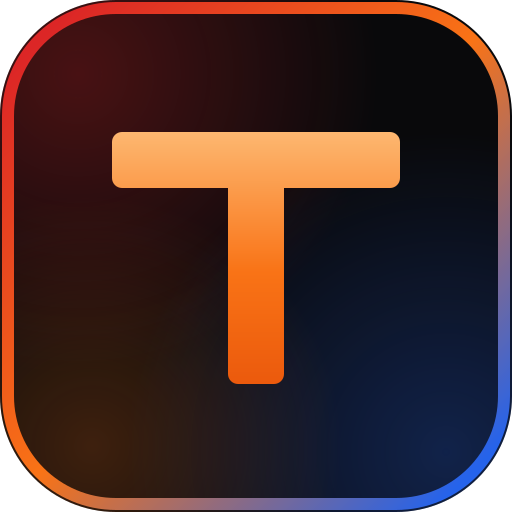
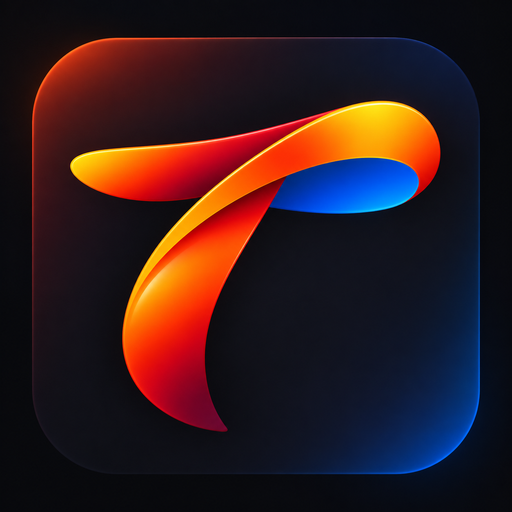
Update production assets and login entry

diff --git a/frontend/src/pages/LoginPage.jsx b/frontend/src/pages/LoginPage.jsx
@@ -3,6 +3,12 @@ import { Link, Navigate, useLocation, useNavigate } from 'react-router-dom'
 import { useAuth } from '../auth/AuthContext'
 import { defaultRouteByRole } from '../utils/roles'
 import InstallAppButton from '../components/InstallAppButton'
+import {
+  buildPublicLandingUrlForWindow,
+  buildTenantDisplayHostForWindow,
+  buildTenantUrlForWindow,
+  resolveHostnameContextForWindow,
+} from '../utils/publicLandingHost'
 
 export default function LoginPage() {
   const { login, isAuthenticated, user } = useAuth()
@@ -11,7 +17,15 @@ export default function LoginPage() {
   const [email, setEmail] = useState('')
   const [password, setPassword] = useState('')
   const [error, setError] = useState('')
+  const [accessMode, setAccessMode] = useState('personal')
+  const [centerSubdomain, setCenterSubdomain] = useState('')
+  const [centerError, setCenterError] = useState('')
   const [loading, setLoading] = useState(false)
+  const hostnameContext = resolveHostnameContextForWindow()
+  const showAccessSelector = hostnameContext.shouldShowLoginSelector
+  const currentAccessMode = showAccessSelector ? accessMode : 'personal'
+  const isAdminLogin = hostnameContext.isAdminDomain
+  const isTenantLogin = hostnameContext.isTenantDomain
 
   if (isAuthenticated && user) {
     return <Navigate to={defaultRouteByRole(user.role)} replace />
@@ -34,15 +48,51 @@ export default function LoginPage() {
     }
   }
 
+  const landingUrl = buildPublicLandingUrlForWindow() || '/'
+
+  const onCenterAccess = (event) => {
+    event.preventDefault()
+    setCenterError('')
+
+    const tenantUrl = buildTenantUrlForWindow(centerSubdomain)
+    if (!tenantUrl) {
+      setCenterError('Ingresa el subdominio de tu centro deportivo.')
+      return
+    }
+
+    window.location.assign(`${tenantUrl}/login`)
+  }
+
+  const centerExampleHost = buildTenantDisplayHostForWindow('gladiador')
+  const centerDomainSuffix = centerExampleHost ? centerExampleHost.replace(/^gladiador/, '') : ''
+  const title = isAdminLogin
+    ? 'Acceso administrativo'
+    : isTenantLogin
+      ? 'Acceso del centro deportivo'
+      : 'Inicia sesión'
+  const subtitle = showAccessSelector
+    ? 'Elige el acceso correcto antes de continuar.'
+    : isAdminLogin
+      ? 'Ingresa con tus credenciales administrativas.'
+      : 'Ingresa con las credenciales de tu centro deportivo.'
+
   return (
     <div className="relative flex min-h-screen items-center justify-center overflow-hidden bg-brand-black p-4 lg:p-0">
       <div className="pointer-events-none absolute inset-0 bg-[radial-gradient(circle_at_15%_20%,rgba(220,38,38,0.23),transparent_28%),radial-gradient(circle_at_85%_20%,rgba(37,99,235,0.2),transparent_25%),radial-gradient(circle_at_50%_100%,rgba(249,115,22,0.18),transparent_30%)]" />
 
       <div className="relative z-10 grid w-full max-w-app overflow-hidden rounded-3xl border border-brand-line bg-brand-soft/95 shadow-glow lg:min-h-[600px] lg:grid-cols-2 lg:rounded-none lg:border-0 lg:bg-transparent lg:shadow-none">
+        <a
+          href={landingUrl}
+          className="absolute left-7 top-7 z-20 inline-flex items-center gap-2 text-sm font-semibold text-brand-muted transition hover:text-brand-orange lg:left-12 lg:top-12"
+        >
+          <span aria-hidden="true">←</span>
+          Volver a TYMRO
+        </a>
+
         {/* Brand panel — desktop only */}
         <div className="relative hidden flex-col justify-between overflow-hidden bg-gradient-to-br from-brand-red/25 via-brand-black to-brand-blue/25 p-12 lg:flex">
           <div className="pointer-events-none absolute -bottom-24 -left-24 h-72 w-72 rounded-full bg-brand-orange/20 blur-3xl" />
-          <p className="font-display text-sm font-bold uppercase tracking-[0.4em] text-brand-orange">TYMRO</p>
+          <div aria-hidden="true" className="h-10" />
           <div className="relative">
             <h2 className="font-display text-4xl font-bold leading-tight text-brand-white xl:text-5xl">
               Gestiona tu gimnasio<br />sin fricción.
@@ -60,53 +110,111 @@ export default function LoginPage() {
         </div>
 
         {/* Form panel */}
-        <div className="flex items-center justify-center p-7 sm:p-10 lg:bg-brand-soft/95">
+        <div className="flex items-center justify-center p-7 pt-20 sm:p-10 sm:pt-24 lg:bg-brand-soft/95 lg:pt-10">
           <div className="w-full max-w-md">
-            <p className="font-display text-xs font-bold uppercase tracking-[0.3em] text-brand-orange lg:hidden">TYMRO</p>
-            <h1 className="mt-3 font-display text-3xl font-bold lg:mt-0">Inicia sesión</h1>
-            <p className="mt-2 text-sm text-brand-muted">Ingresa con tu email y contraseña.</p>
+            <h1 className="font-display text-3xl font-bold">{title}</h1>
+            <p className="mt-2 text-sm text-brand-muted">
+              {subtitle}
+            </p>
 
-            <form onSubmit={onSubmit} className="mt-7 space-y-4">
-              <label className="block space-y-2">
-                <span className="text-sm font-medium text-brand-muted">Email</span>
-                <input
-                  required
-                  type="email"
-                  value={email}
-                  onChange={(e) => setEmail(e.target.value)}
-                  className="field min-h-12 px-4"
-                  placeholder="tu@email.com"
-                />
-              </label>
+            {showAccessSelector ? (
+              <div className="login-access-tabs" role="tablist" aria-label="Tipo de acceso">
+                <button
+                  type="button"
+                  role="tab"
+                  aria-selected={accessMode === 'personal'}
+                  className={accessMode === 'personal' ? 'is-active' : ''}
+                  onClick={() => setAccessMode('personal')}
+                >
+                  Personal
+                </button>
+                <button
+                  type="button"
+                  role="tab"
+                  aria-selected={accessMode === 'center'}
+                  className={accessMode === 'center' ? 'is-active' : ''}
+                  onClick={() => setAccessMode('center')}
+                >
+                  Centro deportivo
+                </button>
+              </div>
+            ) : null}
 
-              <label className="block space-y-2">
-                <span className="text-sm font-medium text-brand-muted">Contraseña</span>
-                <input
-                  required
-                  type="password"
-                  value={password}
-                  onChange={(e) => setPassword(e.target.value)}
-                  className="field min-h-12 px-4"
-                  placeholder="••••••••"
-                />
-              </label>
+            {currentAccessMode === 'personal' ? (
+              <form onSubmit={onSubmit} className="mt-7 space-y-4">
+                <label className="block space-y-2">
+                  <span className="text-sm font-medium text-brand-muted">Email</span>
+                  <input
+                    required
+                    type="email"
+                    value={email}
+                    onChange={(e) => setEmail(e.target.value)}
+                    className="field min-h-12 px-4"
+                    placeholder="tu@email.com"
+                  />
+                </label>
 
-              {error ? <p className="rounded-xl border border-brand-red/50 bg-brand-red/10 p-3 text-sm text-red-100">{error}</p> : null}
+                <label className="block space-y-2">
+                  <span className="text-sm font-medium text-brand-muted">Contraseña</span>
+                  <input
+                    required
+                    type="password"
+                    value={password}
+                    onChange={(e) => setPassword(e.target.value)}
+                    className="field min-h-12 px-4"
+                    placeholder="••••••••"
+                  />
+                </label>
 
-              <button
-                type="submit"
-                disabled={loading}
-                className="min-h-12 w-full rounded-xl bg-gradient-to-r from-brand-red via-brand-orange to-brand-blue px-4 py-3 text-sm font-semibold text-white transition hover:brightness-110 disabled:cursor-not-allowed disabled:opacity-60"
-              >
-                {loading ? 'Ingresando...' : 'Entrar'}
-              </button>
+                {error ? <p className="rounded-xl border border-brand-red/50 bg-brand-red/10 p-3 text-sm text-red-100">{error}</p> : null}
 
-              <p className="text-center text-sm">
-                <Link to="/forgot-password" className="text-brand-muted underline-offset-4 hover:text-brand-orange hover:underline">
-                  ¿Olvidaste tu contraseña?
-                </Link>
-              </p>
-            </form>
+                <button
+                  type="submit"
+                  disabled={loading}
+                  className="login-submit-button"
+                >
+                  {loading ? 'Ingresando...' : 'Entrar'}
+                </button>
+
+                <p className="text-center text-sm">
+                  <Link to="/forgot-password" className="text-brand-muted underline-offset-4 hover:text-brand-orange hover:underline">
+                    ¿Olvidaste tu contraseña?
+                  </Link>
+                </p>
+              </form>
+            ) : (
+              <form onSubmit={onCenterAccess} className="mt-7 space-y-4">
+                <label className="block space-y-2">
+                  <span className="text-sm font-medium text-brand-muted">Subdominio del centro</span>
+                  <div className="flex overflow-hidden rounded-xl border border-brand-line bg-black/30 transition focus-within:border-brand-blue">
+                    <input
+                      required
+                      value={centerSubdomain}
+                      onChange={(e) => setCenterSubdomain(e.target.value)}
+                      className="min-h-12 min-w-0 flex-1 bg-transparent px-4 text-brand-white placeholder:text-brand-dim focus:outline-none"
+                      placeholder="gladiador"
+                      aria-describedby="center-subdomain-help"
+                    />
+                    {centerDomainSuffix ? (
+                      <span className="hidden items-center border-l border-brand-line px-3 text-sm text-brand-muted sm:flex">
+                        {centerDomainSuffix}
+                      </span>
+                    ) : null}
+                  </div>
+                  <span id="center-subdomain-help" className="block text-xs text-brand-dim">
+                    {centerExampleHost
+                      ? `Ejemplo: gladiador te lleva a ${centerExampleHost}`
+                      : 'Ejemplo: gladiador te lleva al dominio configurado para esa organización.'}
+                  </span>
+                </label>
+
+                {centerError ? <p className="rounded-xl border border-brand-red/50 bg-brand-red/10 p-3 text-sm text-red-100">{centerError}</p> : null}
+
+                <button type="submit" className="login-submit-button">
+                  Ir al centro
+                </button>
+              </form>
+            )}
 
             {/* Instalación PWA: solo aparece si el navegador la ofrece o en iOS; oculto
                 si ya corre instalada. No toca la lógica de login. */}

diff --git a/frontend/index.html b/frontend/index.html
@@ -9,7 +9,7 @@
     <meta name="theme-color" content="#09090b" />
     <!-- ?v se sube en cada cambio de ícono: el favicon de la pestaña vive en
          public/ (sin hash de contenido), así el navegador lo recachea al cambiar v. -->
-    <link rel="icon" type="image/svg+xml" href="/favicon.svg?v=2" />
+    <link rel="icon" type="image/png" href="/favicon.png?v=3" />
 
     <!-- iOS (Safari) — Apple no soporta el manifest para instalar, así que
          estos meta + el apple-touch-icon habilitan "Agregar a pantalla de inicio". -->
@@ -20,7 +20,7 @@
          en teléfonos y tablets, con o sin notch. -->
     <meta name="apple-mobile-web-app-status-bar-style" content="black" />
     <meta name="apple-mobile-web-app-title" content="TYMRO" />
-    <link rel="apple-touch-icon" href="/apple-touch-icon.png?v=2" />
+    <link rel="apple-touch-icon" href="/apple-touch-icon.png?v=3" />
 
     <!-- Splash de arranque en frío de iOS (apple-touch-startup-image). iOS muestra
          estas imágenes al lanzar la PWA instalada ANTES de cargar el HTML, evitando

diff --git a/frontend/src/pwa/pwaOptions.js b/frontend/src/pwa/pwaOptions.js
@@ -9,7 +9,7 @@ export const pwaOptions = {
   // al instalarse; el boton aplica una recarga fuerte si el navegador queda pegado.
   registerType: 'prompt',
   // Activos sueltos de public/ que también queremos precachear/exponer.
-  includeAssets: ['favicon.svg', 'apple-touch-icon.png'],
+  includeAssets: ['favicon.png', 'apple-touch-icon.png'],
   manifest: {
     name: 'TYMRO — Gestión de Gimnasios',
     short_name: 'TYMRO',
@@ -35,7 +35,7 @@ export const pwaOptions = {
     // Los splash de iOS (apple-touch-startup-image) NO van al precache: son ~1 MB
     // de cosméticos que iOS pide por HTTP al lanzar (no los sirve el SW al shell),
     // así el precache no se infla ni los re-valida en cada update. Siguen en dist/.
-    globIgnores: ['splash/**'],
+    globIgnores: ['splash/**', 'icono.png', 'logo.png'],
     // SPA: cualquier navegación offline cae al app-shell (index.html).
     navigateFallback: '/index.html',
     // No interceptar las rutas de la API ni media con el fallback de navegación.

diff --git a/frontend/src/pages/SuperadminOrganizationsPage.jsx b/frontend/src/pages/SuperadminOrganizationsPage.jsx
@@ -227,7 +227,7 @@ export default function SuperadminOrganizationsPage() {
                 setSubdomainTouched(true)
                 setForm((prev) => ({ ...prev, subdomain: event.target.value }))
               }}
-              placeholder="r2b"
+              placeholder="gladiador"
               className="w-full rounded-lg border border-brand-line bg-black/30 px-3 py-2"
             />
             <span className="block text-xs text-brand-muted">
